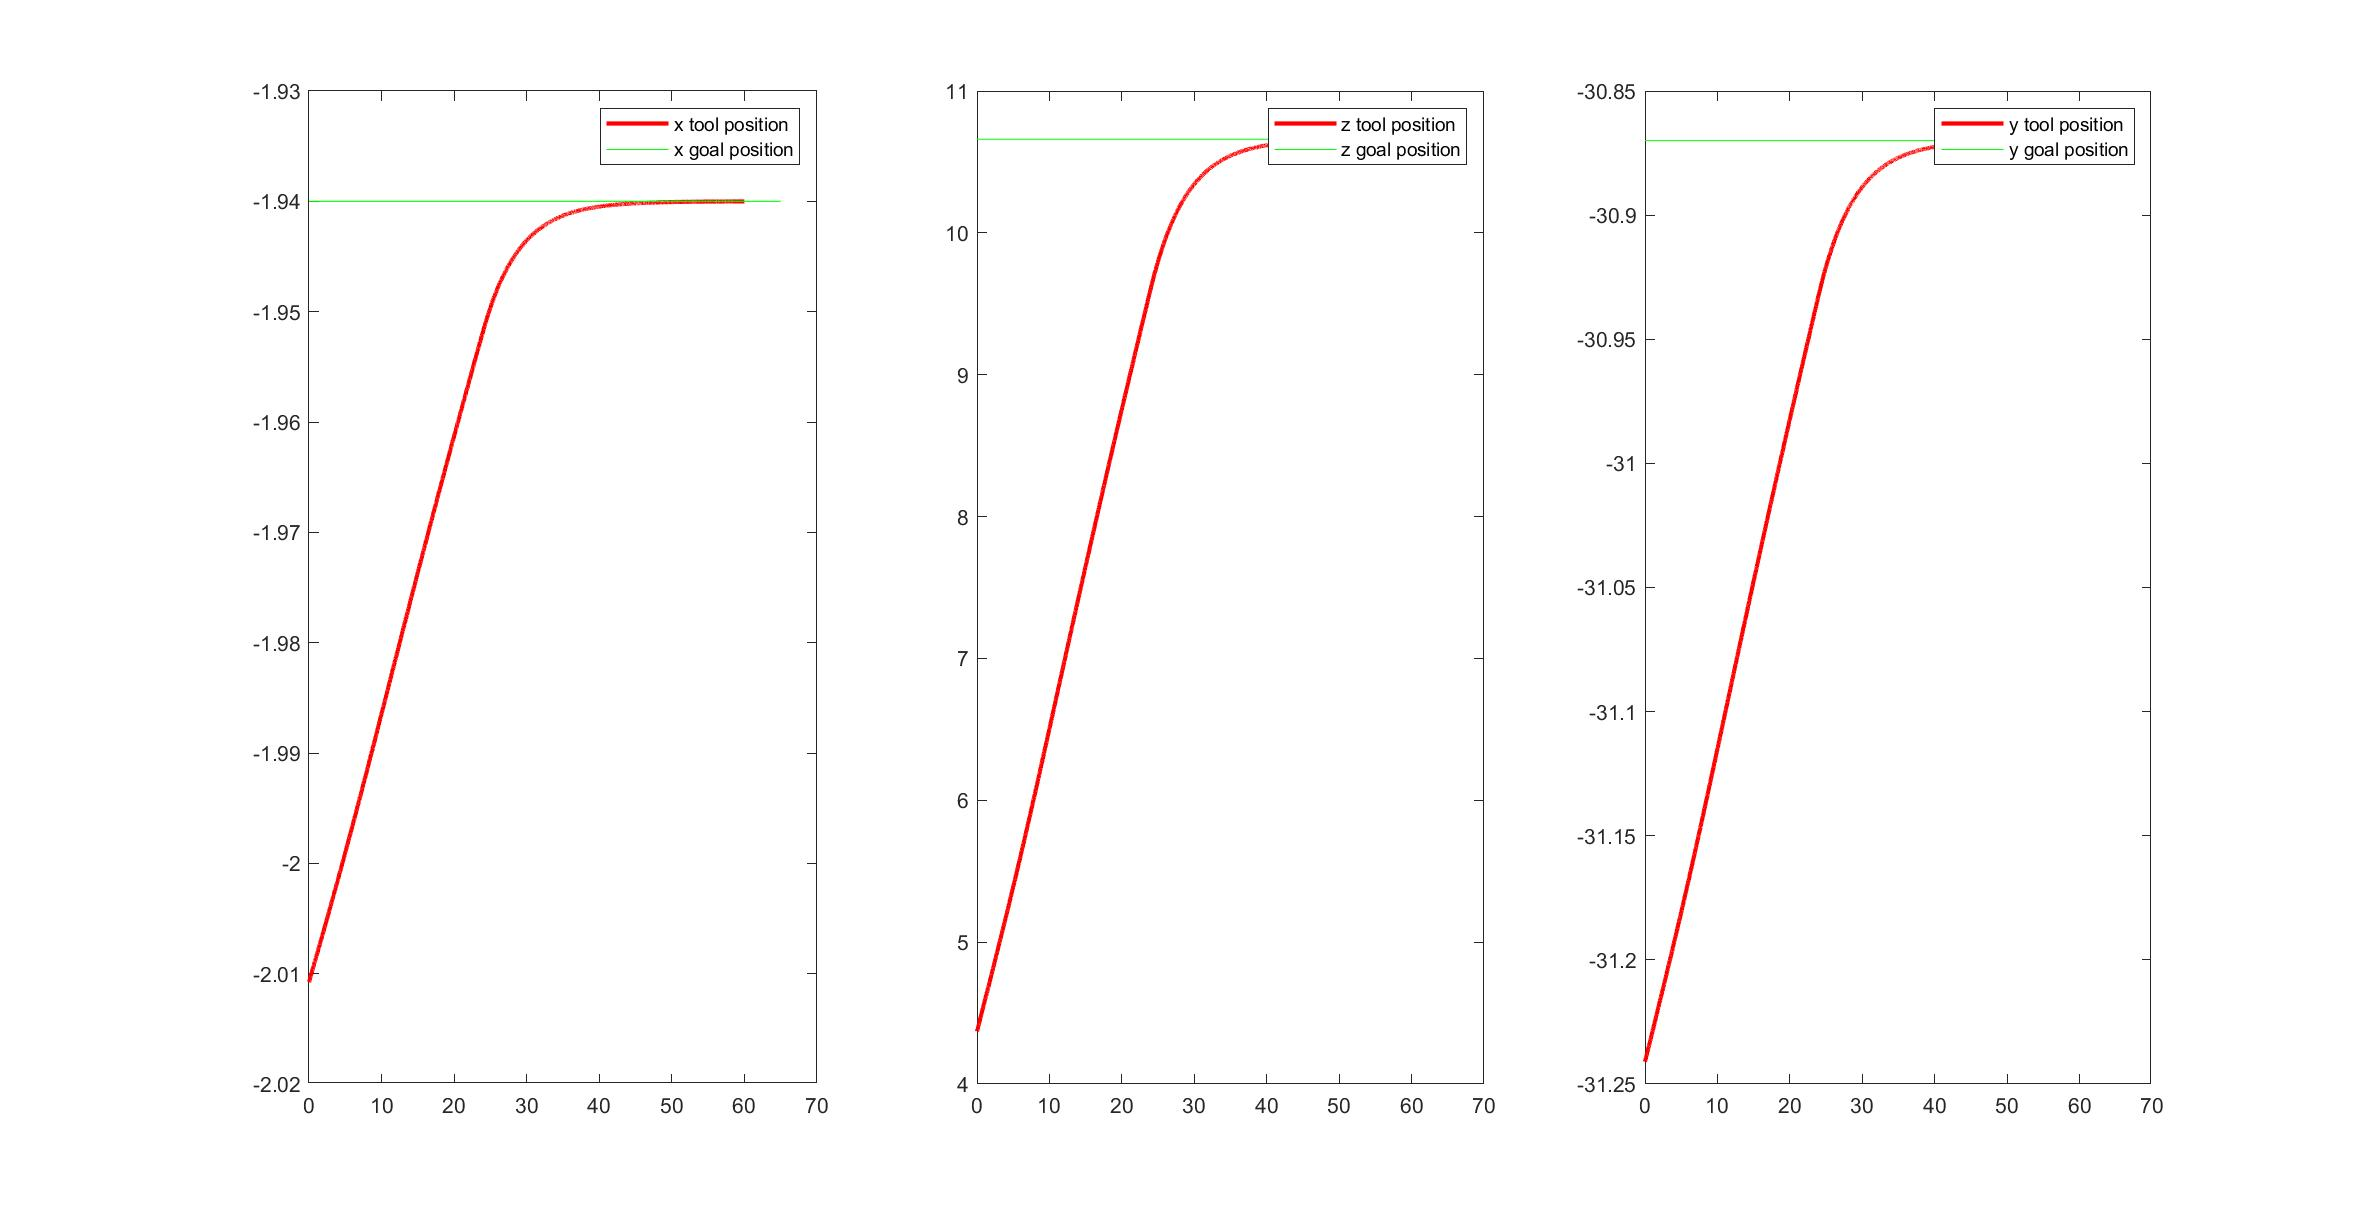
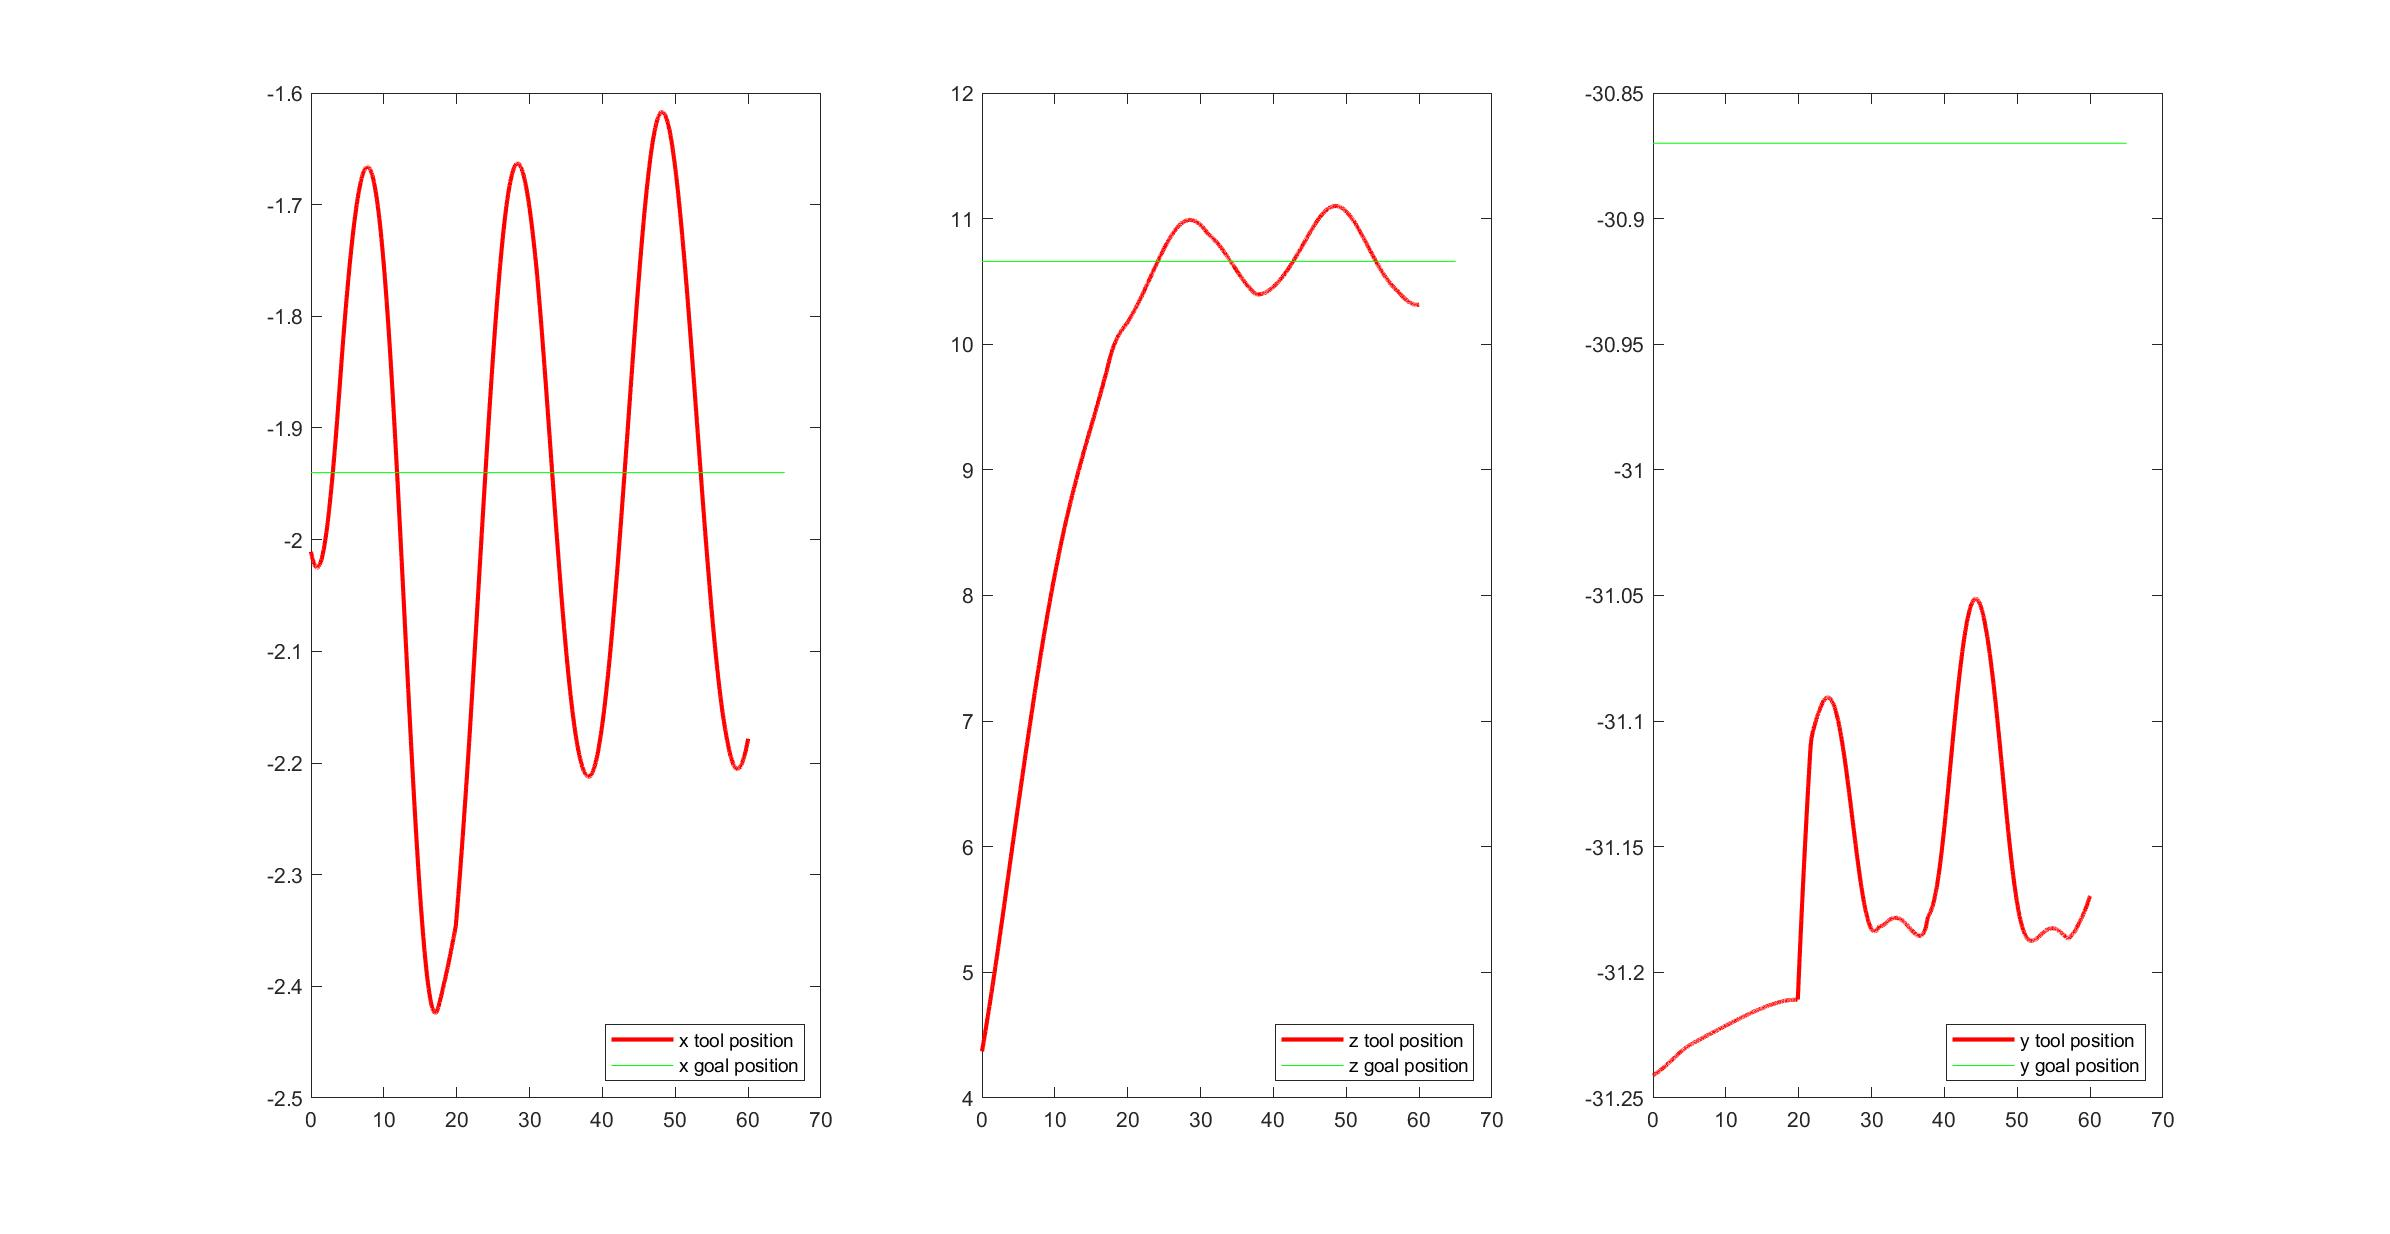
Ex 6.1

diff --git a/Cooperative_Matlab_Scripts/PrintPlot.m b/Cooperative_Matlab_Scripts/PrintPlot.m
@@ -3,63 +3,63 @@ function [ ] = PrintPlot( plt )
 plt.time2 = plt.time1 + plt.time2; 
 plt.time3 = plt.time2 + plt.time3; 
 
-% some predefined plots
-% you can add your own
-f = figure('units','normalized','outerposition',[0 0 1 1], 'visible', 'off');
-%figure(1);
-subplot(2,1,1);
-hplot = plot(plt.t, plt.q);
-set(hplot, 'LineWidth', 1);
-legend('q_1','q_2','q_3','q_4','q_5','q_6','q_7');
-subplot(2,1,2);
-hplot = plot(plt.t, plt.q_dot);
-set(hplot, 'LineWidth', 1);
-legend('qdot_1','qdot_2','qdot_3','qdot_4','qdot_5','qdot_6','qdot_7');
-saveas(f, ['Results/' '1.jpg']);
-
-
-
-f = figure('units','normalized','outerposition',[0 0 1 1], 'visible', 'off');
-%figure(3);
-subplot(3,1,1);
-hplot = plot(plt.t, plt.p);
-set(hplot, 'LineWidth', 1);
-legend('x','y','z','roll','pitch','yaw');
-subplot(2,1,2);
-hplot = plot(plt.t, plt.p_dot);
-set(hplot, 'LineWidth', 1);
-legend('xdot', 'ydot','zdot','omega_x','omega_y','omega_z');
-saveas(f, ['Results/' '2.jpg']);
-
-f = figure('units','normalized','outerposition',[0 0 1 1], 'visible', 'off');
-%figure(4);
-hplot = plot(plt.t, plt.a(1:7,:));
-set(hplot, 'LineWidth', 2);
-legend('Ajl_11','Ajl_22','Ajl_33','Ajl_44','Ajl_55','Ajl_66','Ajl_77');
-saveas(f, ['Results/' '3.jpg']);
-
-
-
-f = figure('units','normalized','outerposition',[0 0 1 1], 'visible', 'off');
-%figure(5);
-hplot = plot(plt.t, plt.a(8:9,:));
-set(hplot, 'LineWidth', 2);
-legend('Amu', 'Aha');
-saveas(f, ['Results/' '4.jpg']);
-
-%% Altitude
-f = figure('units','normalized','outerposition',[0 0 1 1], 'visible', 'off');
-%figure(6)
-hplot = plot(plt.t, plt.altitude,'b');
-set(hplot, 'LineWidth', 2);
-hold on; 
-hplot1 = plot([plt.time1, plt.time1], [0, 35], 'g'); 
-hold on; 
-hplot2 = plot([plt.time2, plt.time2], [0, 35], 'y');
-hold on; 
-hplot3 = plot([plt.time3, plt.time3], [0, 35], 'r');
-legend('altitude', 'EndingPhase1', 'EndingPhase2', 'EndingPhase3');
-saveas(f, ['Results/' '5.jpg']);
+% % some predefined plots
+% % you can add your own
+% f = figure('units','normalized','outerposition',[0 0 1 1], 'visible', 'off');
+% %figure(1);
+% subplot(2,1,1);
+% hplot = plot(plt.t, plt.q);
+% set(hplot, 'LineWidth', 1);
+% legend('q_1','q_2','q_3','q_4','q_5','q_6','q_7');
+% subplot(2,1,2);
+% hplot = plot(plt.t, plt.q_dot);
+% set(hplot, 'LineWidth', 1);
+% legend('qdot_1','qdot_2','qdot_3','qdot_4','qdot_5','qdot_6','qdot_7');
+% saveas(f, ['Results/' '1.jpg']);
+% 
+% 
+% 
+% f = figure('units','normalized','outerposition',[0 0 1 1], 'visible', 'off');
+% %figure(3);
+% subplot(3,1,1);
+% hplot = plot(plt.t, plt.p);
+% set(hplot, 'LineWidth', 1);
+% legend('x','y','z','roll','pitch','yaw');
+% subplot(2,1,2);
+% hplot = plot(plt.t, plt.p_dot);
+% set(hplot, 'LineWidth', 1);
+% legend('xdot', 'ydot','zdot','omega_x','omega_y','omega_z');
+% saveas(f, ['Results/' '2.jpg']);
+% 
+% f = figure('units','normalized','outerposition',[0 0 1 1], 'visible', 'off');
+% %figure(4);
+% hplot = plot(plt.t, plt.a(1:7,:));
+% set(hplot, 'LineWidth', 2);
+% legend('Ajl_11','Ajl_22','Ajl_33','Ajl_44','Ajl_55','Ajl_66','Ajl_77');
+% saveas(f, ['Results/' '3.jpg']);
+% 
+% 
+% 
+% f = figure('units','normalized','outerposition',[0 0 1 1], 'visible', 'off');
+% %figure(5);
+% hplot = plot(plt.t, plt.a(8:9,:));
+% set(hplot, 'LineWidth', 2);
+% legend('Amu', 'Aha');
+% saveas(f, ['Results/' '4.jpg']);
+% 
+% %% Altitude
+% f = figure('units','normalized','outerposition',[0 0 1 1], 'visible', 'off');
+% %figure(6)
+% hplot = plot(plt.t, plt.altitude,'b');
+% set(hplot, 'LineWidth', 2);
+% hold on; 
+% hplot1 = plot([plt.time1, plt.time1], [0, 35], 'g'); 
+% hold on; 
+% hplot2 = plot([plt.time2, plt.time2], [0, 35], 'y');
+% hold on; 
+% hplot3 = plot([plt.time3, plt.time3], [0, 35], 'r');
+% legend('altitude', 'EndingPhase1', 'EndingPhase2', 'EndingPhase3');
+% saveas(f, ['Results/' '5.jpg']);
 
 %% vehicle positions
 f = figure('units','normalized','outerposition',[0 0 1 1], 'visible', 'off');
@@ -162,14 +162,14 @@ hplot = plot(plt.t, plt.toolPos(1,:), 'r');
 set(hplot, 'LineWidth', 2);
 hold on
 hplot2 = plot([0,65], [plt.goalTool(1), plt.goalTool(1)], 'g');
-legend('x tool position', 'x goal position') 
+legend('x tool position', 'x goal position','Location', 'southeast') 
 
 subplot(1,3,2);
 hplot = plot(plt.t, plt.toolPos(2,:), 'r');
 set(hplot, 'LineWidth', 2);
 hold on
 hplot2 = plot([0,65], [plt.goalTool(2), plt.goalTool(2)], 'g');
-legend('z tool position', 'z goal position')
+legend('z tool position', 'z goal position','Location', 'southeast')
 
 subplot(1,3,3);
 hplot = plot(plt.t, plt.toolPos(3,:), 'r');
@@ -196,6 +196,11 @@ for j = 1:7
 end
 
 saveas(f, ['Results/' 'tool_configuration.jpg']); 
+
+f = figure('units','normalized','outerposition',[0 0 1 1], 'visible', 'off');
+hplot = plot(plt.t, plt.error(1,:));
+set(hplot, 'LineWidth', 2);
+saveas(f, ['Results/' 'error_tool_position.jpg']);
 
 
 end 

diff --git a/Cooperative_Matlab_Scripts/MainDexrov.m b/Cooperative_Matlab_Scripts/MainDexrov.m
@@ -111,7 +111,7 @@ for t = 0:deltat:end_time
     rhop2 = zeros(13,1);
     Qp2 = eye(13); 
     
-    %% Vehicle constrained velocity
+    %% Vehicle constrained velocity (non-reactive control task) 
     [Qp2, rhop2] = iCAT_task(uvms.A.vc, uvms.Jvc, Qp2, rhop2, uvms.xdot.vc, 0.0001, 0.01, 10);
 
 
@@ -139,12 +139,25 @@ for t = 0:deltat:end_time
     %%
     [Qp2, rhop2] = iCAT_task(eye(13),     eye(13),    Qp2, rhop2, zeros(13,1),  0.0001,   0.01, 10);    % this task should be the last one
     
+    
+   
     % get the two variables for integration
     uvms.q_dot = rhop2(1:7);
     uvms.p_dot = rhop(8:13);
     
     % Integration
 	uvms.q = uvms.q + uvms.q_dot*deltat;
+    
+    %disturbance
+    uvms.disturb = zeros(1,3); 
+
+    for i = 1:2 
+        uvms.disturb(i) = 0.1*sin(2*0.05*pi*t);
+    end 
+    
+    uvms.p_dot(1:3) = uvms.p_dot(1:3) + (uvms.vTw(1:3,1:3) * uvms.disturb'); 
+    
+    
     % beware: p_dot should be projected on <v>
     uvms.p = integrate_vehicle(uvms.p, uvms.p_dot, deltat);
     

diff --git a/Cooperative_Matlab_Scripts/ComputeActivationFunctions.m b/Cooperative_Matlab_Scripts/ComputeActivationFunctions.m
@@ -16,7 +16,7 @@ function [uvms] = ComputeActivationFunctions(uvms, mission)
 %% Missions
     switch mission.phase
         case 1 %Safe Navigation Action 
-            uvms.Aa.min_alt = eye(1); % Safe Waypoint 
+            uvms.Aa.min_alt = zeros(1); % Safe Waypoint 
             uvms.Aa.jl = eye(1); %Safety
             uvms.Aa.ha = eye(1); % Safe Waypoint
             uvms.Aa.vang = eye(3); % Safe Waypoint
@@ -29,7 +29,7 @@ function [uvms] = ComputeActivationFunctions(uvms, mission)
         case 2 %Floating Manipulation Action 
             uvms.Aa.jl = eye(1); %Safety 
             uvms.Aa.ha = eye(1); %Safety 
-            uvms.Aa.min_alt = eye(1); %Safety
+            uvms.Aa.min_alt = zeros(1); %Safety
             uvms.Aa.vang = zeros(3,3);    
             uvms.Aa.vlin = zeros(3,3);
             uvms.Aa.null = eye(1);

diff --git a/Cooperative_Matlab_Scripts/UpdateDataPlot.m b/Cooperative_Matlab_Scripts/UpdateDataPlot.m
@@ -36,6 +36,8 @@ plt.a(1:7, loop) = diag(uvms.A.jl);
 plt.a(8, loop) = uvms.A.mu;
 plt.a(9, loop) = uvms.A.ha(1,1);
 
+plt.error(1,loop) = norm(uvms.wTt(1:3,4) - uvms.wTg(1:3,4));
+
 plt.toolx(:,loop) = uvms.wTt(1,4);
 plt.tooly(:,loop) = uvms.wTt(2,4);
 end

diff --git a/Cooperative_Matlab_Scripts/InitDataPlot.m b/Cooperative_Matlab_Scripts/InitDataPlot.m
@@ -28,7 +28,8 @@ function [plt] = InitDataPlot( maxloops)
     plt.xdot_t = zeros(6, maxloops);
 
     plt.a = zeros(11, maxloops);
-
+    
+    plt.error = zeros(1, maxloops); 
     
 
 end

diff --git a/Cooperative_Matlab_Scripts/InitUVMS.m b/Cooperative_Matlab_Scripts/InitUVMS.m
@@ -61,6 +61,7 @@ uvms.v_rho = 0;
 uvms.altitude = 0; 
 uvms.v_xi = 0; 
 
+
 uvms.Jjl = [];
 uvms.Jmu = [];
 uvms.Jha = [];
